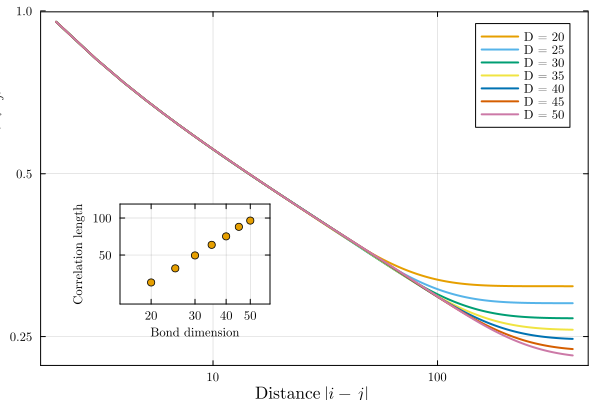
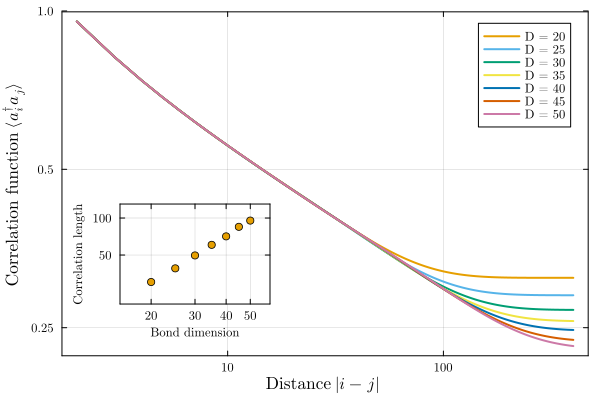
update examples

diff --git a/docs/src/examples/quantum1d/8.bose-hubbard/index.md b/docs/src/examples/quantum1d/8.bose-hubbard/index.md
@@ -154,9 +154,9 @@ println("Energy: ", expectation_value(ground_state, hamiltonian))
 ````
 
 ````
-[ Info: VUMPS init:	obj = +4.962471958690e-01	err = 5.8876e-01
-[ Info: VUMPS conv 50:	obj = -6.757777651150e-01	err = 9.9482617748e-07	time = 6.72 sec
-Energy: -0.6757777651149999 - 6.246015340721835e-17im
+[ Info: VUMPS init:	obj = +3.450895756898e-01	err = 6.6224e-01
+[ Info: VUMPS conv 72:	obj = -6.756981551609e-01	err = 9.5394492271e-07	time = 2.91 sec
+Energy: -0.6756981551608794 - 1.967768893425733e-17im
 
 ````
 
@@ -257,7 +257,7 @@ plot!(
 )
 
 scatter!(
-    p, Ds, correlation_length.(states),
+    p, Ds, map(ψ -> correlation_length(ψ; sector = leftunit(ψ)), states),
     ylabel = "Correlation length", xlabel = "Bond dimension",
     xscale = :log10, yscale = :log10,
     inset = bbox(0.2, 0.51, 0.25, 0.25),
@@ -285,13 +285,13 @@ quasicondensate_density = map(state -> abs2(expectation_value(state, (0,) => a_o
 
 ````
 7-element Vector{Float64}:
- 0.30974277207656425
- 0.28814775930068737
- 0.2702000951730164
- 0.25712728156142256
- 0.2468538617129866
- 0.2353979140629328
- 0.2279965552408022
+ 0.31098779070601257
+ 0.2881478589434881
+ 0.2702000230423913
+ 0.25712728516508654
+ 0.24685385948652017
+ 0.23539753899204166
+ 0.22799654088348645
 ````
 
 We may now also visualize the momentum distribution function, which is obtained as the
@@ -466,3 +466,4 @@ using what we have learnt in this tutorial.
 ---
 
 *This page was generated using [Literate.jl](https://github.com/fredrikekre/Literate.jl).*
+

diff --git a/docs/src/examples/classic2d/1.hard-hexagon/index.md b/docs/src/examples/classic2d/1.hard-hexagon/index.md
@@ -53,12 +53,12 @@ V = virtual_space(D)
 ) # use non-hermitian eigensolver
 F = real(expectation_value(ψ, mpo))
 S = real(first(entropy(ψ)))
-ξ = correlation_length(ψ)
+ξ = correlation_length(ψ; sector = leftunit(ψ))
 println("F = $F\tS = $S\tξ = $ξ")
 ````
 
 ````
-F = 0.8839037051703849	S = 1.280782962202701	ξ = 13.849682582739709
+F = 0.8839037051703853	S = 1.2807829621998208	ξ = 13.849682582515639
 
 ````
 
@@ -80,13 +80,13 @@ function scaling_simulations(
 
     ψ, envs, = leading_boundary(ψ₀, mpo, alg)
     entropies[1] = real(entropy(ψ)[1])
-    correlations[1] = correlation_length(ψ)
+    correlations[1] = correlation_length(ψ; sector = leftunit(ψ))
 
     for (i, d) in enumerate(diff(Ds))
         ψ, envs = changebonds(ψ, mpo, OptimalExpand(; trscheme = truncrank(d)), envs)
         ψ, envs, = leading_boundary(ψ, mpo, alg, envs)
         entropies[i + 1] = real(entropy(ψ)[1])
-        correlations[i + 1] = correlation_length(ψ)
+        correlations[i + 1] = correlation_length(ψ; sector = leftunit(ψ))
     end
     return entropies, correlations
 end
@@ -100,7 +100,7 @@ c = f.coeffs[2]
 ````
 
 ````
-0.8025237309498792
+0.802522955933348
 ````
 
 ````julia

diff --git a/docs/src/examples/quantum1d/5.haldane-spt/index.md b/docs/src/examples/quantum1d/5.haldane-spt/index.md
@@ -128,7 +128,7 @@ E_plus = expectation_value(ψ_plus, H)
 ````
 
 ````
--1.4014193313393009 - 5.2545708620134027e-17im
+-1.4014193313393009 - 3.851708855717825e-17im
 ````
 
 ````julia
@@ -139,7 +139,7 @@ E_minus = expectation_value(ψ_minus, H)
 ````
 
 ````
--1.401483973963084 - 2.875923408269285e-17im
+-1.4014839739630844 - 5.800167584873572e-17im
 ````
 
 ````julia
@@ -188,11 +188,12 @@ println("S_plus = $S_plus")
 ````
 
 ````
-S_minus + log(2) = 1.5486227235421324
-S_plus = 1.5450323530571919
+S_minus + log(2) = 1.548622723541372
+S_plus = 1.5450323530299226
 
 ````
 
 ---
 
 *This page was generated using [Literate.jl](https://github.com/fredrikekre/Literate.jl).*
+
